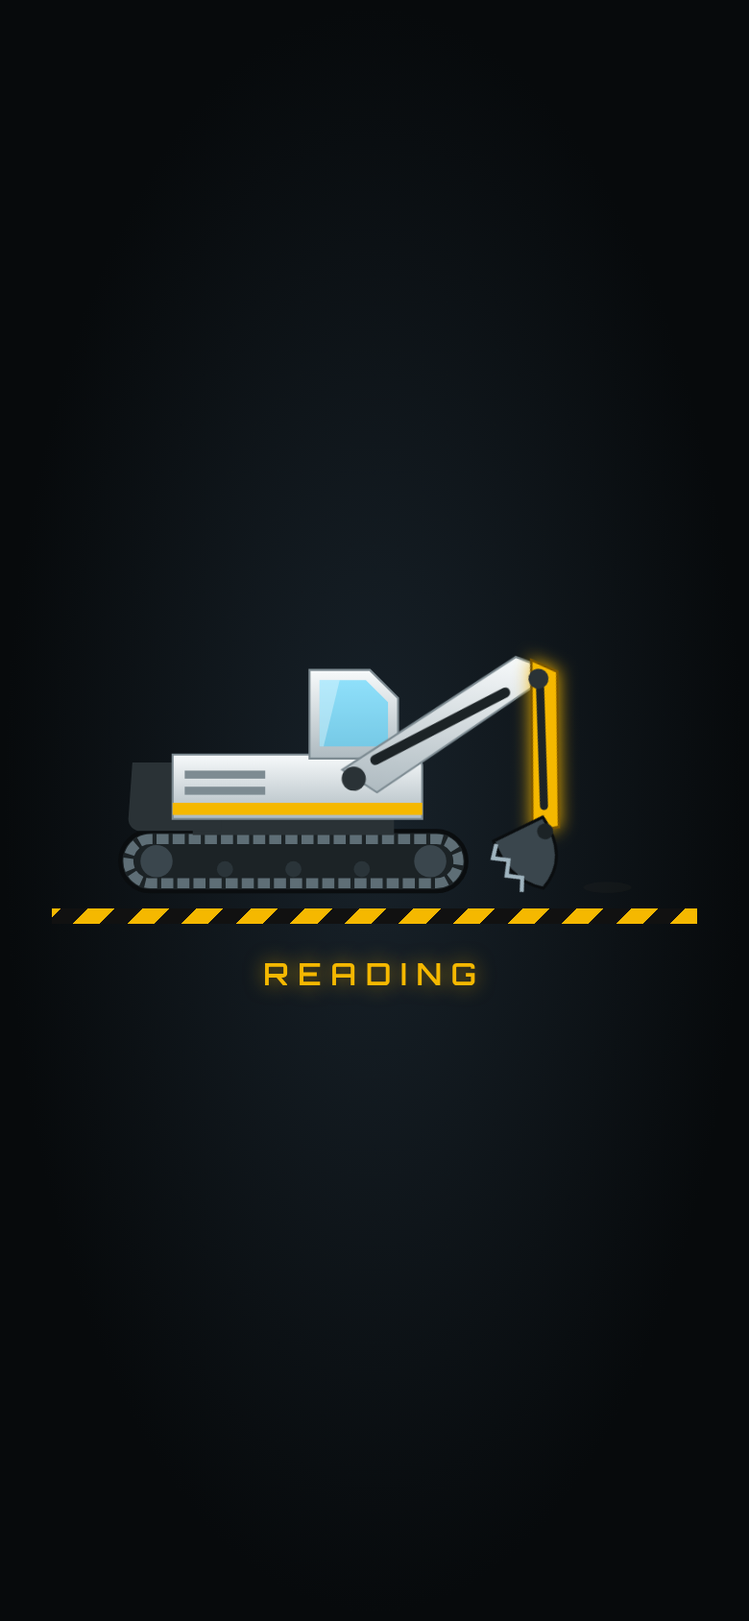
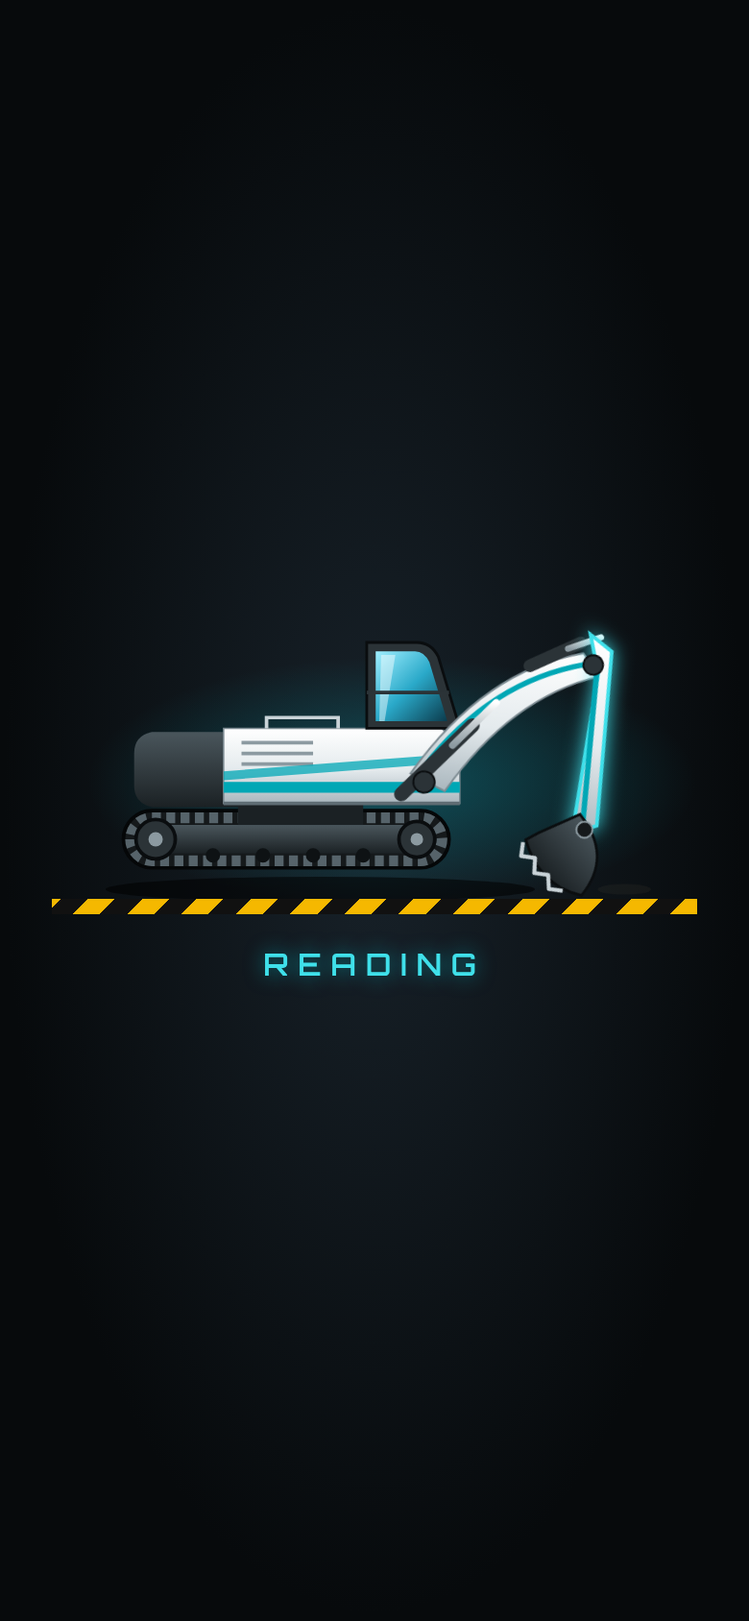
GAS: コベルコ建機カラー（白×ブルーグリーン）に変更、ショベルを描き直し
Claude-Session: https://claude.ai/code/session_01HFT8mKpU6VM34VUtTFDf1R

Changed region(s): [[0.0923, 0.3697, 0.8308, 0.6161], [0.8308, 0.5545, 0.9231, 0.5853]]

diff --git a/gas-paste/index.html b/gas-paste/index.html
@@ -9,7 +9,7 @@
 :root{
   --bg:#0E1215; --plate:#171D21; --plate2:#1F272C; --edge:#33414A; --edge-hi:#4C5E69;
   --ink:#DCE4E6; --sub:#8A9AA2; --steel:#9FB4BF;
-  --yellow:#F5B800; --ok:#38E08A; --warn:#FFB020; --ng:#FF4D3D; --cyan:#3FD0FF; --stamp:#C9D6DA;
+  --yellow:#F5B800;--accent:#00A7B5;--accent-hi:#3FE0EA; --ok:#38E08A; --warn:#FFB020; --ng:#FF4D3D; --cyan:#3FD0FF; --stamp:#C9D6DA;
   --cut:10px;
   color-scheme:dark;
 }
@@ -22,7 +22,7 @@ body{margin:0;min-height:100vh;color:var(--ink);font-family:"BIZ UDPGothic","Hir
     linear-gradient(90deg,rgba(63,208,255,.035) 1px,transparent 1px) 0 0/24px 24px,
     radial-gradient(ellipse at 50% -10%,#1C262C 0%,var(--bg) 60%);
   background-color:var(--bg);background-attachment:fixed}
-.hazard{height:10px;background:repeating-linear-gradient(-45deg,var(--yellow) 0 14px,#111 14px 28px);box-shadow:0 2px 0 #000}
+.hazard{height:10px;background:repeating-linear-gradient(-45deg,#F5B800 0 14px,#111 14px 28px);box-shadow:0 2px 0 #000}
 main{max-width:720px;margin:0 auto;padding:14px 16px 16px}
 header{display:flex;justify-content:space-between;align-items:center;gap:8px;margin:2px 0 12px;padding:10px 12px;
   background:linear-gradient(180deg,var(--plate2),var(--plate));border:1px solid var(--edge);
@@ -34,7 +34,7 @@ h1{font-family:"Orbitron","Share Tech Mono",sans-serif;font-weight:800;font-size
   background:linear-gradient(180deg,#F4F8F9 0%,#9FB4BF 55%,#5E727C 100%);-webkit-background-clip:text;background-clip:text;color:transparent}
 .brand small{display:block;font-family:"Share Tech Mono",monospace;font-size:.62rem;letter-spacing:.32em;color:var(--sub);margin-top:4px}
 h2{font-family:"Share Tech Mono","BIZ UDPGothic",monospace;font-size:.95rem;letter-spacing:.08em;margin:0 0 10px;color:var(--steel);display:flex;align-items:center;gap:8px}
-h2::before{content:"";width:6px;height:14px;background:var(--yellow);box-shadow:0 0 6px rgba(245,184,0,.5)}
+h2::before{content:"";width:6px;height:14px;background:var(--accent);box-shadow:0 0 6px rgba(0,200,215,.5)}
 button{font:inherit;cursor:pointer;border:none;border-radius:0;color:inherit}
 button:disabled{opacity:.45;cursor:default}
 button:focus-visible,input:focus-visible,textarea:focus-visible{outline:2px solid var(--cyan);outline-offset:2px}
@@ -46,7 +46,7 @@ button:focus-visible,input:focus-visible,textarea:focus-visible{outline:2px soli
   background:linear-gradient(180deg,#232C31,#161C20);color:var(--sub);border:1px solid var(--edge);position:relative}
 #nav button::after{content:"";position:absolute;left:50%;top:4px;width:18px;height:3px;margin-left:-9px;background:#2A3439}
 #nav button.on{color:var(--ink);background:linear-gradient(180deg,#2C3940,#1B2328);border-color:var(--edge-hi)}
-#nav button.on::after{background:var(--yellow);box-shadow:0 0 8px var(--yellow)}
+#nav button.on::after{background:var(--accent);box-shadow:0 0 8px var(--accent)}
 #nav .badge{display:inline-block;min-width:1.5em;margin-left:6px;padding:0 5px;background:var(--ng);color:#fff;font-size:.72rem;box-shadow:0 0 8px rgba(255,77,61,.6)}
 section{position:relative;background:linear-gradient(180deg,var(--plate2) 0,var(--plate) 60px);border:1px solid var(--edge);padding:16px 14px 14px;margin-bottom:14px;
   clip-path:polygon(0 0,calc(100% - var(--cut)) 0,100% var(--cut),100% 100%,var(--cut) 100%,0 calc(100% - var(--cut)));
@@ -55,22 +55,22 @@ section{position:relative;background:linear-gradient(180deg,var(--plate2) 0,var(
 section::before,section::after{content:"";position:absolute;top:6px;width:7px;height:7px;border-radius:50%;
   background:radial-gradient(circle at 35% 35%,#8FA3AD,#3A464D 60%,#1B2226);box-shadow:0 1px 0 rgba(255,255,255,.06)}
 section::before{left:6px}section::after{right:16px}
-.shoot{display:block;width:100%;min-height:92px;color:#111;font-size:1.15rem;font-weight:700;letter-spacing:.06em;position:relative;
-  background:linear-gradient(180deg,#FFCC2E,#E0A400);border:none;
+.shoot{display:block;width:100%;min-height:92px;color:#fff;text-shadow:0 1px 0 rgba(0,0,0,.35);font-size:1.15rem;font-weight:700;letter-spacing:.06em;position:relative;
+  background:linear-gradient(180deg,#22C3D0,#00848F);border:none;
   clip-path:polygon(0 0,calc(100% - 16px) 0,100% 16px,100% 100%,16px 100%,0 calc(100% - 16px));
   box-shadow:inset 0 -4px 0 rgba(0,0,0,.25)}
-.shoot::before{content:"";position:absolute;left:0;top:0;bottom:0;width:18px;background:repeating-linear-gradient(-45deg,#111 0 7px,transparent 7px 14px)}
+.shoot::before{content:"";position:absolute;left:0;top:0;bottom:0;width:18px;background:repeating-linear-gradient(-45deg,#F5B800 0 7px,#111 7px 14px)}
 .shoot small{display:block;font-weight:400;font-size:.78rem;opacity:.75}
 .shoot:active{transform:translateY(1px);filter:brightness(.95)}
 .shoot.alt{margin-top:10px;min-height:56px;font-size:.98rem;color:var(--ink);background:linear-gradient(180deg,#2A353B,#1A2226);border:1px solid var(--edge-hi);box-shadow:none}
-.shoot.alt::before{width:8px;background:var(--yellow)}
+.shoot.alt::before{width:8px;background:var(--accent)}
 .tip,.muted{font-size:.8rem;color:var(--sub)}
 .tip{margin:8px 2px 16px;padding-left:10px;border-left:2px solid var(--edge-hi)}
 .btn{flex:1;padding:12px;font-weight:700;letter-spacing:.06em;color:var(--ink);background:linear-gradient(180deg,#36444B,#232D32);border:1px solid var(--edge-hi);
   clip-path:polygon(0 0,calc(100% - 8px) 0,100% 8px,100% 100%,8px 100%,0 calc(100% - 8px))}
 .btn:active{filter:brightness(1.15)}
 .btn.sec{background:transparent;border:1px solid var(--edge-hi);color:var(--steel)}
-.btn.go{background:linear-gradient(180deg,#FFCC2E,#E0A400);color:#111;border:none}
+.btn.go{background:linear-gradient(180deg,#22C3D0,#00848F);color:#fff;border:none}
 .btn.ok{background:linear-gradient(180deg,#2BC274,#178A50);color:#fff;border:none;text-shadow:0 1px 0 rgba(0,0,0,.3);box-shadow:inset 0 0 0 1px rgba(255,255,255,.12)}
 .btn.mini{flex:0 0 auto;padding:6px 12px;font-size:.8rem}
 .row{display:flex;gap:8px;margin-top:10px;flex-wrap:wrap}
@@ -101,16 +101,16 @@ textarea{min-height:64px}
 .days{display:flex;gap:6px;overflow-x:auto;padding-bottom:8px}
 .days button{flex:0 0 auto;padding:6px 12px;background:#0A0D0F;border:1px solid var(--edge);color:var(--steel);font-family:"Share Tech Mono","BIZ UDPGothic",monospace;font-weight:700;line-height:1.25;text-align:center}
 .days button small{display:block;font-weight:400;font-size:.7rem;color:var(--sub)}
-.days button.on{border-color:var(--yellow);color:#111;background:linear-gradient(180deg,#FFCC2E,#E0A400)}
-.days button.on small{color:#111}
+.days button.on{border-color:var(--accent);color:#fff;background:linear-gradient(180deg,#22C3D0,#00848F)}
+.days button.on small{color:#E6FCFF}
 .days button.has-todo small{color:var(--ng);font-weight:700}
-.days button.on.has-todo small{color:#7A0E06}
+.days button.on.has-todo small{color:#FFE1DC}
 .tl{list-style:none;margin:0;padding:0;border-left:2px solid var(--edge);margin-left:6px}
 .tl li{display:flex;justify-content:space-between;border-top:1px dashed var(--edge);padding:7px 0 7px 14px;font-size:.9rem;position:relative}
 .tl li::before{content:"";position:absolute;left:-6px;top:13px;width:10px;height:10px;background:var(--plate);border:2px solid var(--edge-hi);transform:rotate(45deg)}
 .tl li:first-child{border-top:none}
 .tl li.empty{color:var(--sub)}
-.tl li:not(.empty)::before{border-color:var(--yellow);background:var(--yellow);box-shadow:0 0 6px rgba(245,184,0,.6)}
+.tl li:not(.empty)::before{border-color:var(--accent);background:var(--accent);box-shadow:0 0 6px rgba(0,200,215,.6)}
 .steps li{display:block}
 .steps .sh{display:flex;justify-content:space-between}
 .steps .chg{font-size:.78rem;color:var(--warn)}
@@ -143,19 +143,19 @@ textarea{min-height:64px}
 .full{position:fixed;inset:0;z-index:10;background:#050708;color:#fff;display:flex;flex-direction:column}
 .full .bar{display:flex;gap:8px;padding:12px}
 .full .bar .btn{background:#2A3438;color:#fff}
-.full .bar .btn.go{background:linear-gradient(180deg,#FFCC2E,#E0A400);color:#111}
+.full .bar .btn.go{background:linear-gradient(180deg,#22C3D0,#00848F);color:#fff}
 .full .hint{text-align:center;font-size:.88rem;padding:10px 12px 0;color:var(--cyan);font-family:"Share Tech Mono","BIZ UDPGothic",monospace}
 #vfBox{position:relative;flex:1;overflow:hidden}
 #vfBox video{position:absolute;inset:0;width:100%;height:100%;object-fit:cover}
-#guide{position:absolute;left:7%;width:86%;top:50%;transform:translateY(-50%);aspect-ratio:3.2/1;border:2px solid var(--yellow);box-shadow:0 0 0 9999px rgba(0,0,0,.6),0 0 14px rgba(245,184,0,.6)}
+#guide{position:absolute;left:7%;width:86%;top:50%;transform:translateY(-50%);aspect-ratio:3.2/1;border:2px solid var(--accent);box-shadow:0 0 0 9999px rgba(0,0,0,.6),0 0 14px rgba(0,200,215,.6)}
 #guide::before{content:"";position:absolute;left:0;right:0;top:50%;height:1px;background:rgba(63,208,255,.6);animation:scan 2s linear infinite}
 @keyframes scan{0%{top:6%}50%{top:94%}100%{top:6%}}
 #guide::after{content:"1行目：図番　2行目：◇ 年月-号機";position:absolute;left:0;right:0;top:calc(100% + 10px);text-align:center;font-size:.82rem;color:#fff}
 #cropStage{flex:1;display:flex;align-items:center;justify-content:center;overflow:hidden;padding:8px}
 #cropWrap{position:relative;touch-action:none;line-height:0;overflow:hidden}
 #cropImg{max-width:100%;max-height:calc(100vh - 220px);display:block;user-select:none;-webkit-user-drag:none}
-#cropBox{position:absolute;border:2px solid var(--yellow);box-shadow:0 0 0 9999px rgba(0,0,0,.6);cursor:move;touch-action:none}
-.h{position:absolute;width:30px;height:30px;background:var(--yellow);touch-action:none;clip-path:polygon(50% 0,100% 50%,50% 100%,0 50%)}
+#cropBox{position:absolute;border:2px solid var(--accent);box-shadow:0 0 0 9999px rgba(0,0,0,.6);cursor:move;touch-action:none}
+.h{position:absolute;width:30px;height:30px;background:var(--accent);touch-action:none;clip-path:polygon(50% 0,100% 50%,50% 100%,0 50%)}
 .h.tl{left:-15px;top:-15px}.h.tr{right:-15px;top:-15px}.h.bl{left:-15px;bottom:-15px}.h.br{right:-15px;bottom:-15px}
 #toast{position:fixed;left:50%;bottom:calc(20px + env(safe-area-inset-bottom,0px));transform:translateX(-50%) translateY(90px);background:#060909;color:var(--ok);
   border:1px solid var(--ok);box-shadow:0 0 12px rgba(56,224,138,.35);font-family:"Share Tech Mono","BIZ UDPGothic",monospace;padding:10px 16px;transition:transform .25s;z-index:30;font-size:.88rem;max-width:90vw}
@@ -163,18 +163,20 @@ textarea{min-height:64px}
 #toast.show{transform:translateX(-50%) translateY(0)}
 
 /* ===== パワーショベル ===== */
-:root{--body:#E9EEF0;--body2:#B9C4CA;--dark:#2A3236;--arm:#F5B800;--glass:#3FD0FF}
+:root{--body:#E9EEF0;--body2:#B9C4CA;--dark:#2A3236;--arm:#00A7B5;--glass:#3FD0FF}
 .hero{display:flex;align-items:flex-end;justify-content:space-between;gap:6px}
-.hero .exc{width:58%;max-width:250px;margin:-14px -6px -6px 0;filter:drop-shadow(0 6px 8px rgba(0,0,0,.6))}
+.hero{min-height:150px;align-items:stretch}
+.hero>div:first-child{position:relative;z-index:1}
+.hero .exc{position:absolute;right:4px;bottom:-2px;width:62%;max-width:310px;filter:drop-shadow(0 8px 10px rgba(0,0,0,.6))}
 .exc .trk-tread{animation:tread .8s linear infinite}
 @keyframes tread{to{stroke-dashoffset:-16}}
-.exc .boom{transform-box:view-box;transform-origin:150px 92px;animation:boom 4s ease-in-out infinite alternate}
-.exc .arm{transform-box:view-box;transform-origin:238px 36px;animation:armk 4s ease-in-out infinite alternate}
-.exc .bkt{transform-box:view-box;transform-origin:262px 108px;animation:bkt 4s ease-in-out infinite alternate}
-@keyframes boom{0%{transform:rotate(-10deg)}100%{transform:rotate(6deg)}}
-@keyframes armk{0%{transform:rotate(-18deg)}100%{transform:rotate(16deg)}}
+.exc .boom{transform-box:view-box;transform-origin:208px 100px;animation:boom 4s ease-in-out infinite alternate}
+.exc .arm{transform-box:view-box;transform-origin:296px 26px;animation:armk 4s ease-in-out infinite alternate}
+.exc .bkt{transform-box:view-box;transform-origin:316px 116px;animation:bkt 4s ease-in-out infinite alternate}
+@keyframes boom{0%{transform:rotate(-8deg)}100%{transform:rotate(7deg)}}
+@keyframes armk{0%{transform:rotate(-22deg)}100%{transform:rotate(14deg)}}
 @keyframes bkt{0%{transform:rotate(-35deg)}100%{transform:rotate(40deg)}}
-.exc .armpart{fill:var(--arm);filter:drop-shadow(0 0 4px rgba(245,184,0,.9))}
+.exc .armpart{fill:url(#gBody);stroke:var(--accent-hi);stroke-width:2;filter:drop-shadow(0 0 5px rgba(63,224,234,.95))}
 .exc .dust{animation:dust 4s ease-in-out infinite alternate;transform-box:fill-box;transform-origin:center}
 @keyframes dust{0%,70%{opacity:0;transform:scale(.4)}100%{opacity:.7;transform:scale(1.2)}}
 .tracks{height:16px;margin:0 0 12px;background:
@@ -186,9 +188,9 @@ textarea{min-height:64px}
   background:radial-gradient(ellipse at center,#18222A 0%,#070A0C 70%)}
 #busy .exc{width:min(86vw,420px)}
 #busy .exc .boom,#busy .exc .arm,#busy .exc .bkt,#busy .exc .dust{animation-duration:1.1s}
-#busy p{margin:0;font-family:"Orbitron","Share Tech Mono",monospace;letter-spacing:.3em;color:var(--yellow);text-shadow:0 0 10px rgba(245,184,0,.6);font-size:1rem}
+#busy p{margin:0;font-family:"Orbitron","Share Tech Mono",monospace;letter-spacing:.3em;color:var(--accent-hi);text-shadow:0 0 10px rgba(0,200,215,.6);font-size:1rem}
 #busy small{font-family:"Share Tech Mono","BIZ UDPGothic",monospace;color:var(--sub);letter-spacing:.06em}
-#busy .ground{width:min(86vw,420px);height:8px;margin-top:-18px;background:repeating-linear-gradient(-45deg,var(--yellow) 0 10px,#111 10px 20px)}
+#busy .ground{width:min(86vw,420px);height:8px;margin-top:-18px;background:repeating-linear-gradient(-45deg,#F5B800 0 10px,#111 10px 20px)}
 h1{font-size:1.9rem}
 .shoot{min-height:104px;font-size:1.25rem}
 .shoot .bucket{display:inline-block;width:34px;height:26px;vertical-align:-5px;margin-right:8px}
@@ -213,7 +215,7 @@ h1{font-size:1.9rem}
   </nav>
 
   <div id="scanView">
-    <button class="shoot" id="shootBtn" type="button"><svg class="bucket" viewBox="0 0 34 26"><path d="M2 4 q26 0 30 18 q-16 6 -30 0 z" fill="#111"/><path d="M4 22 l3 4 l4 -3 l4 4 l4 -3 l4 3" fill="none" stroke="#111" stroke-width="2"/></svg>刻印を撮影する<small>黄色い枠に図番と号機の2行を合わせる</small></button>
+    <button class="shoot" id="shootBtn" type="button"><svg class="bucket" viewBox="0 0 34 26" fill="none" stroke="#fff" stroke-width="2.6"><path d="M2 8 V2 H9 M25 2 H32 V8 M32 18 V24 H25 M9 24 H2 V18"/><path d="M8 13 H26" stroke-width="1.6" opacity=".9"/></svg>刻印を撮影する<small>枠に図番と号機の2行を合わせる</small></button>
     <button class="shoot alt" id="pickBtn" type="button">写真を選んで枠で切り抜く</button>
     <input id="cam" type="file" accept="image/*" capture="environment" class="hidden">
     <input id="pick" type="file" accept="image/*" class="hidden">
@@ -243,7 +245,7 @@ h1{font-size:1.9rem}
   <div class="bar"><button class="btn" id="vfCancel" type="button">やめる</button><button class="btn go" id="vfShot" type="button">撮る</button></div>
 </div>
 <div class="full hidden" id="crop">
-  <div class="hint">黄色い枠を刻印の2行に合わせる（ドラッグで移動、角で大きさ）</div>
+  <div class="hint">枠を刻印の2行に合わせる（ドラッグで移動、角で大きさ）</div>
   <div id="cropStage"><div id="cropWrap"><img id="cropImg" alt="切り抜く写真"><div id="cropBox"><div class="h tl" data-h="tl"></div><div class="h tr" data-h="tr"></div><div class="h bl" data-h="bl"></div><div class="h br" data-h="br"></div></div></div></div>
   <div class="bar"><button class="btn" id="cropCancel" type="button">やめる</button><button class="btn go" id="cropOk" type="button">この範囲で読む</button></div>
 </div>
@@ -253,7 +255,7 @@ h1{font-size:1.9rem}
 <script>
 (() => {
 const $ = id => document.getElementById(id);
-const EXC_SVG = '<svg class="exc" viewBox="0 0 320 160" aria-hidden="true">\n  <defs>\n    <linearGradient id="gBody" x1="0" y1="0" x2="0" y2="1"><stop offset="0" stop-color="#F7FAFB"/><stop offset="1" stop-color="#AEBAC0"/></linearGradient>\n    <linearGradient id="gArm" x1="0" y1="0" x2="1" y2="1"><stop offset="0" stop-color="#FFD54A"/><stop offset="1" stop-color="#E09A00"/></linearGradient>\n  </defs>\n  <!-- キャタピラ -->\n  <rect x="34" y="118" width="172" height="30" rx="15" fill="#1C2326" stroke="#0A0D0F" stroke-width="2"/>\n  <rect x="38" y="122" width="164" height="22" rx="11" fill="none" stroke="#5E6E76" stroke-width="5" stroke-dasharray="6 2" class="trk-tread"/>\n  <circle cx="52" cy="133" r="8" fill="#3A464D"/><circle cx="188" cy="133" r="8" fill="#3A464D"/>\n  <circle cx="86" cy="137" r="4" fill="#2A3439"/><circle cx="120" cy="137" r="4" fill="#2A3439"/><circle cx="154" cy="137" r="4" fill="#2A3439"/>\n  <!-- 旋回体 -->\n  <rect x="70" y="110" width="100" height="10" fill="#2A3236"/>\n  <path d="M40 84 h44 v34 h-40 a6 6 0 0 1 -6 -6 z" fill="#2A3236"/>\n  <path d="M60 80 h118 a6 6 0 0 1 6 6 v26 h-124 z" fill="url(#gBody)" stroke="#7D8B92" stroke-width="1"/>\n  <rect x="66" y="88" width="40" height="4" fill="#7D8B92"/><rect x="66" y="96" width="40" height="4" fill="#7D8B92"/>\n  <rect x="60" y="104" width="124" height="6" fill="#F5B800"/>\n  <!-- キャブ -->\n  <path d="M128 38 h30 l14 14 v30 h-44 z" fill="url(#gBody)" stroke="#7D8B92"/>\n  <path d="M133 43 h23 l11 11 v22 h-34 z" fill="#3FD0FF" opacity=".55"/>\n  <path d="M133 43 h10 l-8 33 h-2 z" fill="#fff" opacity=".35"/>\n  <!-- ブーム → アーム → バケット -->\n  <g class="boom">\n    <path d="M144 88 L226 26 L246 32 L162 98 Z" fill="url(#gBody)" stroke="#7D8B92"/>\n    <path d="M160 82 L222 44" stroke="#1C2326" stroke-width="5" stroke-linecap="round"/>\n    <circle cx="150" cy="92" r="6" fill="#2A3236"/>\n    <g class="arm">\n      <path class="armpart" d="M232 28 L246 30 L268 104 L256 110 Z" stroke="#7A5500" stroke-width="1.2"/>\n      <path d="M240 40 L258 96" stroke="#1C2326" stroke-width="4" stroke-linecap="round"/>\n      <circle cx="238" cy="36" r="5" fill="#2A3236"/>\n      <g class="bkt">\n        <path d="M256 104 q24 4 26 24 q-14 10 -34 2 z" fill="#3A464D" stroke="#0A0D0F" stroke-width="1.5"/>\n        <path d="M250 130 l4 6 l6 -5 l5 6 l6 -5 l5 5" fill="none" stroke="#9FB4BF" stroke-width="2"/>\n        <circle cx="262" cy="108" r="4" fill="#1C2326"/>\n      </g>\n    </g>\n  </g>\n  <ellipse class="dust" cx="276" cy="146" rx="26" ry="6" fill="#8A7A5C"/>\n</svg>';
+const EXC_SVG = '<svg class="exc" viewBox="0 0 360 170" aria-hidden="true">\n  <defs>\n    <linearGradient id="gBody" x1="0" y1="0" x2="0" y2="1"><stop offset="0" stop-color="#FFFFFF"/><stop offset=".55" stop-color="#E4EAED"/><stop offset="1" stop-color="#A9B6BD"/></linearGradient>\n    <linearGradient id="gDark" x1="0" y1="0" x2="0" y2="1"><stop offset="0" stop-color="#4A565C"/><stop offset="1" stop-color="#1B2124"/></linearGradient>\n    <linearGradient id="gGlass" x1="0" y1="0" x2="1" y2="1"><stop offset="0" stop-color="#9FEFFF"/><stop offset=".5" stop-color="#2AA9C9"/><stop offset="1" stop-color="#0B3B4C"/></linearGradient>\n    <linearGradient id="gRod" x1="0" y1="0" x2="0" y2="1"><stop offset="0" stop-color="#FFFFFF"/><stop offset="1" stop-color="#8C9AA1"/></linearGradient>\n    <radialGradient id="gSpot" cx=".5" cy=".5" r=".5"><stop offset="0" stop-color="#00A7B5" stop-opacity=".35"/><stop offset="1" stop-color="#00A7B5" stop-opacity="0"/></radialGradient>\n  </defs>\n  <ellipse cx="190" cy="100" rx="170" ry="70" fill="url(#gSpot)"/>\n  <ellipse cx="150" cy="160" rx="120" ry="7" fill="#000" opacity=".55"/>\n  <!-- 足回り -->\n  <path d="M40 132 a16 16 0 0 1 16 -16 h150 a16 16 0 0 1 0 32 h-150 a16 16 0 0 1 -16 -16 z" fill="#15191B" stroke="#050708" stroke-width="2"/>\n  <path d="M44 132 a12 12 0 0 1 12 -12 h150 a12 12 0 0 1 0 24 h-150 a12 12 0 0 1 -12 -12 z" fill="none" stroke="#56636A" stroke-width="6" stroke-dasharray="5 3" class="trk-tread"/>\n  <rect x="58" y="124" width="146" height="16" rx="4" fill="url(#gDark)"/>\n  <circle cx="58" cy="132" r="11" fill="#2B3337" stroke="#0A0D0F" stroke-width="2"/><circle cx="58" cy="132" r="4" fill="#8C9AA1"/>\n  <circle cx="204" cy="132" r="10" fill="#2B3337" stroke="#0A0D0F" stroke-width="2"/><circle cx="204" cy="132" r="3.5" fill="#8C9AA1"/>\n  <g fill="#0E1214"><circle cx="90" cy="141" r="4"/><circle cx="118" cy="141" r="4"/><circle cx="146" cy="141" r="4"/><circle cx="174" cy="141" r="4"/></g>\n  <rect x="104" y="112" width="70" height="12" fill="#1B2124"/>\n  <!-- 上部旋回体 -->\n  <path d="M46 84 q0 -10 10 -12 h52 v42 h-52 q-10 -2 -10 -12 z" fill="url(#gDark)"/>\n  <path d="M96 70 h122 l10 12 v30 h-132 z" fill="url(#gBody)" stroke="#7D8B92" stroke-width=".8"/>\n  <g stroke="#8C9AA1" stroke-width="2"><path d="M106 78 h40"/><path d="M106 84 h40"/><path d="M106 90 h40"/></g>\n  <path d="M96 100 h132 v6 h-132 z" fill="#00A7B5"/>\n  <path d="M96 94 l132 -10 v5 l-132 10 z" fill="#00A7B5" opacity=".75"/>\n  <path d="M96 112 h132" stroke="#5E6C73" stroke-width="2"/>\n  <path d="M120 70 v-6 h40 v6" fill="none" stroke="#C9D3D8" stroke-width="2"/>\n  <!-- キャブ -->\n  <path d="M176 22 h28 q8 0 12 8 l12 40 h-52 z" fill="#2B3337" stroke="#0A0D0F" stroke-width="1.5"/>\n  <path d="M181 27 h22 q5 0 8 6 l10 33 h-40 z" fill="url(#gGlass)"/>\n  <path d="M184 29 h8 l-6 37 h-3 z" fill="#fff" opacity=".45"/>\n  <path d="M176 50 h46" stroke="#2B3337" stroke-width="2"/>\n  <!-- ブーム（弓なり）→ アーム → バケット -->\n  <g class="boom">\n    <path d="M200 96 Q236 34 290 20 L300 32 Q252 48 220 104 Z" fill="url(#gBody)" stroke="#7D8B92" stroke-width="1"/>\n    <path d="M207 92 Q240 40 292 26" fill="none" stroke="#00A7B5" stroke-width="3"/>\n    <!-- ブームシリンダー -->\n    <path d="M196 108 L232 66" stroke="#2B3337" stroke-width="8" stroke-linecap="round"/>\n    <path d="M222 78 L244 52" stroke="url(#gRod)" stroke-width="4" stroke-linecap="round"/>\n    <circle cx="208" cy="100" r="6" fill="#2B3337" stroke="#0A0D0F"/>\n    <g class="arm">\n      <!-- アームシリンダー -->\n      <path d="M262 36 L286 16" stroke="#2B3337" stroke-width="7" stroke-linecap="round"/>\n      <path d="M280 21 L296 10" stroke="url(#gRod)" stroke-width="3.5" stroke-linecap="round"/>\n      <path class="armpart" d="M290 10 L304 16 L322 112 L310 120 L300 30 Z"/>\n      <path d="M298 24 L314 112" stroke="#00A7B5" stroke-width="3"/>\n      <circle cx="296" cy="26" r="5.5" fill="#2B3337" stroke="#0A0D0F"/>\n      <g class="bkt">\n        <path d="M308 112 q30 2 34 30 q-20 14 -44 2 l2 -8 z" fill="url(#gDark)" stroke="#0A0D0F" stroke-width="1.5"/>\n        <path d="M298 146 l5 6 l6 -5 l6 6 l6 -5 l6 5 l6 -5" fill="none" stroke="#C9D3D8" stroke-width="2.2" stroke-linejoin="round"/>\n        <circle cx="316" cy="116" r="4.5" fill="#15191B" stroke="#8C9AA1"/>\n      </g>\n    </g>\n  </g>\n  <ellipse class="dust" cx="320" cy="160" rx="30" ry="6" fill="#8A7A5C"/>\n</svg>';
 document.querySelectorAll("[data-exc]").forEach(el => { el.outerHTML = EXC_SVG; });
 function busy(on, title, sub) { $("busy").classList.toggle("hidden", !on); if (on) { $("busyT").textContent = title || "WORKING"; $("busyS").textContent = sub || ""; } }
 const run = (fn, ...args) => new Promise((res, rej) => google.script.run.withSuccessHandler(res).withFailureHandler(rej)[fn](...args));

diff --git a/gas/index.html b/gas/index.html
@@ -9,7 +9,7 @@
 :root{
   --bg:#0E1215; --plate:#171D21; --plate2:#1F272C; --edge:#33414A; --edge-hi:#4C5E69;
   --ink:#DCE4E6; --sub:#8A9AA2; --steel:#9FB4BF;
-  --yellow:#F5B800; --ok:#38E08A; --warn:#FFB020; --ng:#FF4D3D; --cyan:#3FD0FF; --stamp:#C9D6DA;
+  --yellow:#F5B800;--accent:#00A7B5;--accent-hi:#3FE0EA; --ok:#38E08A; --warn:#FFB020; --ng:#FF4D3D; --cyan:#3FD0FF; --stamp:#C9D6DA;
   --cut:10px;
   color-scheme:dark;
 }
@@ -22,7 +22,7 @@ body{margin:0;min-height:100vh;color:var(--ink);font-family:"BIZ UDPGothic","Hir
     linear-gradient(90deg,rgba(63,208,255,.035) 1px,transparent 1px) 0 0/24px 24px,
     radial-gradient(ellipse at 50% -10%,#1C262C 0%,var(--bg) 60%);
   background-color:var(--bg);background-attachment:fixed}
-.hazard{height:10px;background:repeating-linear-gradient(-45deg,var(--yellow) 0 14px,#111 14px 28px);box-shadow:0 2px 0 #000}
+.hazard{height:10px;background:repeating-linear-gradient(-45deg,#F5B800 0 14px,#111 14px 28px);box-shadow:0 2px 0 #000}
 main{max-width:720px;margin:0 auto;padding:14px 16px 16px}
 header{display:flex;justify-content:space-between;align-items:center;gap:8px;margin:2px 0 12px;padding:10px 12px;
   background:linear-gradient(180deg,var(--plate2),var(--plate));border:1px solid var(--edge);
@@ -34,7 +34,7 @@ h1{font-family:"Orbitron","Share Tech Mono",sans-serif;font-weight:800;font-size
   background:linear-gradient(180deg,#F4F8F9 0%,#9FB4BF 55%,#5E727C 100%);-webkit-background-clip:text;background-clip:text;color:transparent}
 .brand small{display:block;font-family:"Share Tech Mono",monospace;font-size:.62rem;letter-spacing:.32em;color:var(--sub);margin-top:4px}
 h2{font-family:"Share Tech Mono","BIZ UDPGothic",monospace;font-size:.95rem;letter-spacing:.08em;margin:0 0 10px;color:var(--steel);display:flex;align-items:center;gap:8px}
-h2::before{content:"";width:6px;height:14px;background:var(--yellow);box-shadow:0 0 6px rgba(245,184,0,.5)}
+h2::before{content:"";width:6px;height:14px;background:var(--accent);box-shadow:0 0 6px rgba(0,200,215,.5)}
 button{font:inherit;cursor:pointer;border:none;border-radius:0;color:inherit}
 button:disabled{opacity:.45;cursor:default}
 button:focus-visible,input:focus-visible,textarea:focus-visible{outline:2px solid var(--cyan);outline-offset:2px}
@@ -46,7 +46,7 @@ button:focus-visible,input:focus-visible,textarea:focus-visible{outline:2px soli
   background:linear-gradient(180deg,#232C31,#161C20);color:var(--sub);border:1px solid var(--edge);position:relative}
 #nav button::after{content:"";position:absolute;left:50%;top:4px;width:18px;height:3px;margin-left:-9px;background:#2A3439}
 #nav button.on{color:var(--ink);background:linear-gradient(180deg,#2C3940,#1B2328);border-color:var(--edge-hi)}
-#nav button.on::after{background:var(--yellow);box-shadow:0 0 8px var(--yellow)}
+#nav button.on::after{background:var(--accent);box-shadow:0 0 8px var(--accent)}
 #nav .badge{display:inline-block;min-width:1.5em;margin-left:6px;padding:0 5px;background:var(--ng);color:#fff;font-size:.72rem;box-shadow:0 0 8px rgba(255,77,61,.6)}
 section{position:relative;background:linear-gradient(180deg,var(--plate2) 0,var(--plate) 60px);border:1px solid var(--edge);padding:16px 14px 14px;margin-bottom:14px;
   clip-path:polygon(0 0,calc(100% - var(--cut)) 0,100% var(--cut),100% 100%,var(--cut) 100%,0 calc(100% - var(--cut)));
@@ -55,22 +55,22 @@ section{position:relative;background:linear-gradient(180deg,var(--plate2) 0,var(
 section::before,section::after{content:"";position:absolute;top:6px;width:7px;height:7px;border-radius:50%;
   background:radial-gradient(circle at 35% 35%,#8FA3AD,#3A464D 60%,#1B2226);box-shadow:0 1px 0 rgba(255,255,255,.06)}
 section::before{left:6px}section::after{right:16px}
-.shoot{display:block;width:100%;min-height:92px;color:#111;font-size:1.15rem;font-weight:700;letter-spacing:.06em;position:relative;
-  background:linear-gradient(180deg,#FFCC2E,#E0A400);border:none;
+.shoot{display:block;width:100%;min-height:92px;color:#fff;text-shadow:0 1px 0 rgba(0,0,0,.35);font-size:1.15rem;font-weight:700;letter-spacing:.06em;position:relative;
+  background:linear-gradient(180deg,#22C3D0,#00848F);border:none;
   clip-path:polygon(0 0,calc(100% - 16px) 0,100% 16px,100% 100%,16px 100%,0 calc(100% - 16px));
   box-shadow:inset 0 -4px 0 rgba(0,0,0,.25)}
-.shoot::before{content:"";position:absolute;left:0;top:0;bottom:0;width:18px;background:repeating-linear-gradient(-45deg,#111 0 7px,transparent 7px 14px)}
+.shoot::before{content:"";position:absolute;left:0;top:0;bottom:0;width:18px;background:repeating-linear-gradient(-45deg,#F5B800 0 7px,#111 7px 14px)}
 .shoot small{display:block;font-weight:400;font-size:.78rem;opacity:.75}
 .shoot:active{transform:translateY(1px);filter:brightness(.95)}
 .shoot.alt{margin-top:10px;min-height:56px;font-size:.98rem;color:var(--ink);background:linear-gradient(180deg,#2A353B,#1A2226);border:1px solid var(--edge-hi);box-shadow:none}
-.shoot.alt::before{width:8px;background:var(--yellow)}
+.shoot.alt::before{width:8px;background:var(--accent)}
 .tip,.muted{font-size:.8rem;color:var(--sub)}
 .tip{margin:8px 2px 16px;padding-left:10px;border-left:2px solid var(--edge-hi)}
 .btn{flex:1;padding:12px;font-weight:700;letter-spacing:.06em;color:var(--ink);background:linear-gradient(180deg,#36444B,#232D32);border:1px solid var(--edge-hi);
   clip-path:polygon(0 0,calc(100% - 8px) 0,100% 8px,100% 100%,8px 100%,0 calc(100% - 8px))}
 .btn:active{filter:brightness(1.15)}
 .btn.sec{background:transparent;border:1px solid var(--edge-hi);color:var(--steel)}
-.btn.go{background:linear-gradient(180deg,#FFCC2E,#E0A400);color:#111;border:none}
+.btn.go{background:linear-gradient(180deg,#22C3D0,#00848F);color:#fff;border:none}
 .btn.ok{background:linear-gradient(180deg,#2BC274,#178A50);color:#fff;border:none;text-shadow:0 1px 0 rgba(0,0,0,.3);box-shadow:inset 0 0 0 1px rgba(255,255,255,.12)}
 .btn.mini{flex:0 0 auto;padding:6px 12px;font-size:.8rem}
 .row{display:flex;gap:8px;margin-top:10px;flex-wrap:wrap}
@@ -101,16 +101,16 @@ textarea{min-height:64px}
 .days{display:flex;gap:6px;overflow-x:auto;padding-bottom:8px}
 .days button{flex:0 0 auto;padding:6px 12px;background:#0A0D0F;border:1px solid var(--edge);color:var(--steel);font-family:"Share Tech Mono","BIZ UDPGothic",monospace;font-weight:700;line-height:1.25;text-align:center}
 .days button small{display:block;font-weight:400;font-size:.7rem;color:var(--sub)}
-.days button.on{border-color:var(--yellow);color:#111;background:linear-gradient(180deg,#FFCC2E,#E0A400)}
-.days button.on small{color:#111}
+.days button.on{border-color:var(--accent);color:#fff;background:linear-gradient(180deg,#22C3D0,#00848F)}
+.days button.on small{color:#E6FCFF}
 .days button.has-todo small{color:var(--ng);font-weight:700}
-.days button.on.has-todo small{color:#7A0E06}
+.days button.on.has-todo small{color:#FFE1DC}
 .tl{list-style:none;margin:0;padding:0;border-left:2px solid var(--edge);margin-left:6px}
 .tl li{display:flex;justify-content:space-between;border-top:1px dashed var(--edge);padding:7px 0 7px 14px;font-size:.9rem;position:relative}
 .tl li::before{content:"";position:absolute;left:-6px;top:13px;width:10px;height:10px;background:var(--plate);border:2px solid var(--edge-hi);transform:rotate(45deg)}
 .tl li:first-child{border-top:none}
 .tl li.empty{color:var(--sub)}
-.tl li:not(.empty)::before{border-color:var(--yellow);background:var(--yellow);box-shadow:0 0 6px rgba(245,184,0,.6)}
+.tl li:not(.empty)::before{border-color:var(--accent);background:var(--accent);box-shadow:0 0 6px rgba(0,200,215,.6)}
 .steps li{display:block}
 .steps .sh{display:flex;justify-content:space-between}
 .steps .chg{font-size:.78rem;color:var(--warn)}
@@ -143,19 +143,19 @@ textarea{min-height:64px}
 .full{position:fixed;inset:0;z-index:10;background:#050708;color:#fff;display:flex;flex-direction:column}
 .full .bar{display:flex;gap:8px;padding:12px}
 .full .bar .btn{background:#2A3438;color:#fff}
-.full .bar .btn.go{background:linear-gradient(180deg,#FFCC2E,#E0A400);color:#111}
+.full .bar .btn.go{background:linear-gradient(180deg,#22C3D0,#00848F);color:#fff}
 .full .hint{text-align:center;font-size:.88rem;padding:10px 12px 0;color:var(--cyan);font-family:"Share Tech Mono","BIZ UDPGothic",monospace}
 #vfBox{position:relative;flex:1;overflow:hidden}
 #vfBox video{position:absolute;inset:0;width:100%;height:100%;object-fit:cover}
-#guide{position:absolute;left:7%;width:86%;top:50%;transform:translateY(-50%);aspect-ratio:3.2/1;border:2px solid var(--yellow);box-shadow:0 0 0 9999px rgba(0,0,0,.6),0 0 14px rgba(245,184,0,.6)}
+#guide{position:absolute;left:7%;width:86%;top:50%;transform:translateY(-50%);aspect-ratio:3.2/1;border:2px solid var(--accent);box-shadow:0 0 0 9999px rgba(0,0,0,.6),0 0 14px rgba(0,200,215,.6)}
 #guide::before{content:"";position:absolute;left:0;right:0;top:50%;height:1px;background:rgba(63,208,255,.6);animation:scan 2s linear infinite}
 @keyframes scan{0%{top:6%}50%{top:94%}100%{top:6%}}
 #guide::after{content:"1行目：図番　2行目：◇ 年月-号機";position:absolute;left:0;right:0;top:calc(100% + 10px);text-align:center;font-size:.82rem;color:#fff}
 #cropStage{flex:1;display:flex;align-items:center;justify-content:center;overflow:hidden;padding:8px}
 #cropWrap{position:relative;touch-action:none;line-height:0;overflow:hidden}
 #cropImg{max-width:100%;max-height:calc(100vh - 220px);display:block;user-select:none;-webkit-user-drag:none}
-#cropBox{position:absolute;border:2px solid var(--yellow);box-shadow:0 0 0 9999px rgba(0,0,0,.6);cursor:move;touch-action:none}
-.h{position:absolute;width:30px;height:30px;background:var(--yellow);touch-action:none;clip-path:polygon(50% 0,100% 50%,50% 100%,0 50%)}
+#cropBox{position:absolute;border:2px solid var(--accent);box-shadow:0 0 0 9999px rgba(0,0,0,.6);cursor:move;touch-action:none}
+.h{position:absolute;width:30px;height:30px;background:var(--accent);touch-action:none;clip-path:polygon(50% 0,100% 50%,50% 100%,0 50%)}
 .h.tl{left:-15px;top:-15px}.h.tr{right:-15px;top:-15px}.h.bl{left:-15px;bottom:-15px}.h.br{right:-15px;bottom:-15px}
 #toast{position:fixed;left:50%;bottom:calc(20px + env(safe-area-inset-bottom,0px));transform:translateX(-50%) translateY(90px);background:#060909;color:var(--ok);
   border:1px solid var(--ok);box-shadow:0 0 12px rgba(56,224,138,.35);font-family:"Share Tech Mono","BIZ UDPGothic",monospace;padding:10px 16px;transition:transform .25s;z-index:30;font-size:.88rem;max-width:90vw}
@@ -163,18 +163,20 @@ textarea{min-height:64px}
 #toast.show{transform:translateX(-50%) translateY(0)}
 
 /* ===== パワーショベル ===== */
-:root{--body:#E9EEF0;--body2:#B9C4CA;--dark:#2A3236;--arm:#F5B800;--glass:#3FD0FF}
+:root{--body:#E9EEF0;--body2:#B9C4CA;--dark:#2A3236;--arm:#00A7B5;--glass:#3FD0FF}
 .hero{display:flex;align-items:flex-end;justify-content:space-between;gap:6px}
-.hero .exc{width:58%;max-width:250px;margin:-14px -6px -6px 0;filter:drop-shadow(0 6px 8px rgba(0,0,0,.6))}
+.hero{min-height:150px;align-items:stretch}
+.hero>div:first-child{position:relative;z-index:1}
+.hero .exc{position:absolute;right:4px;bottom:-2px;width:62%;max-width:310px;filter:drop-shadow(0 8px 10px rgba(0,0,0,.6))}
 .exc .trk-tread{animation:tread .8s linear infinite}
 @keyframes tread{to{stroke-dashoffset:-16}}
-.exc .boom{transform-box:view-box;transform-origin:150px 92px;animation:boom 4s ease-in-out infinite alternate}
-.exc .arm{transform-box:view-box;transform-origin:238px 36px;animation:armk 4s ease-in-out infinite alternate}
-.exc .bkt{transform-box:view-box;transform-origin:262px 108px;animation:bkt 4s ease-in-out infinite alternate}
-@keyframes boom{0%{transform:rotate(-10deg)}100%{transform:rotate(6deg)}}
-@keyframes armk{0%{transform:rotate(-18deg)}100%{transform:rotate(16deg)}}
+.exc .boom{transform-box:view-box;transform-origin:208px 100px;animation:boom 4s ease-in-out infinite alternate}
+.exc .arm{transform-box:view-box;transform-origin:296px 26px;animation:armk 4s ease-in-out infinite alternate}
+.exc .bkt{transform-box:view-box;transform-origin:316px 116px;animation:bkt 4s ease-in-out infinite alternate}
+@keyframes boom{0%{transform:rotate(-8deg)}100%{transform:rotate(7deg)}}
+@keyframes armk{0%{transform:rotate(-22deg)}100%{transform:rotate(14deg)}}
 @keyframes bkt{0%{transform:rotate(-35deg)}100%{transform:rotate(40deg)}}
-.exc .armpart{fill:var(--arm);filter:drop-shadow(0 0 4px rgba(245,184,0,.9))}
+.exc .armpart{fill:url(#gBody);stroke:var(--accent-hi);stroke-width:2;filter:drop-shadow(0 0 5px rgba(63,224,234,.95))}
 .exc .dust{animation:dust 4s ease-in-out infinite alternate;transform-box:fill-box;transform-origin:center}
 @keyframes dust{0%,70%{opacity:0;transform:scale(.4)}100%{opacity:.7;transform:scale(1.2)}}
 .tracks{height:16px;margin:0 0 12px;background:
@@ -186,9 +188,9 @@ textarea{min-height:64px}
   background:radial-gradient(ellipse at center,#18222A 0%,#070A0C 70%)}
 #busy .exc{width:min(86vw,420px)}
 #busy .exc .boom,#busy .exc .arm,#busy .exc .bkt,#busy .exc .dust{animation-duration:1.1s}
-#busy p{margin:0;font-family:"Orbitron","Share Tech Mono",monospace;letter-spacing:.3em;color:var(--yellow);text-shadow:0 0 10px rgba(245,184,0,.6);font-size:1rem}
+#busy p{margin:0;font-family:"Orbitron","Share Tech Mono",monospace;letter-spacing:.3em;color:var(--accent-hi);text-shadow:0 0 10px rgba(0,200,215,.6);font-size:1rem}
 #busy small{font-family:"Share Tech Mono","BIZ UDPGothic",monospace;color:var(--sub);letter-spacing:.06em}
-#busy .ground{width:min(86vw,420px);height:8px;margin-top:-18px;background:repeating-linear-gradient(-45deg,var(--yellow) 0 10px,#111 10px 20px)}
+#busy .ground{width:min(86vw,420px);height:8px;margin-top:-18px;background:repeating-linear-gradient(-45deg,#F5B800 0 10px,#111 10px 20px)}
 h1{font-size:1.9rem}
 .shoot{min-height:104px;font-size:1.25rem}
 .shoot .bucket{display:inline-block;width:34px;height:26px;vertical-align:-5px;margin-right:8px}
@@ -213,7 +215,7 @@ h1{font-size:1.9rem}
   </nav>
 
   <div id="scanView">
-    <button class="shoot" id="shootBtn" type="button"><svg class="bucket" viewBox="0 0 34 26"><path d="M2 4 q26 0 30 18 q-16 6 -30 0 z" fill="#111"/><path d="M4 22 l3 4 l4 -3 l4 4 l4 -3 l4 3" fill="none" stroke="#111" stroke-width="2"/></svg>刻印を撮影する<small>黄色い枠に図番と号機の2行を合わせる</small></button>
+    <button class="shoot" id="shootBtn" type="button"><svg class="bucket" viewBox="0 0 34 26" fill="none" stroke="#fff" stroke-width="2.6"><path d="M2 8 V2 H9 M25 2 H32 V8 M32 18 V24 H25 M9 24 H2 V18"/><path d="M8 13 H26" stroke-width="1.6" opacity=".9"/></svg>刻印を撮影する<small>枠に図番と号機の2行を合わせる</small></button>
     <button class="shoot alt" id="pickBtn" type="button">写真を選んで枠で切り抜く</button>
     <input id="cam" type="file" accept="image/*" capture="environment" class="hidden">
     <input id="pick" type="file" accept="image/*" class="hidden">
@@ -243,7 +245,7 @@ h1{font-size:1.9rem}
   <div class="bar"><button class="btn" id="vfCancel" type="button">やめる</button><button class="btn go" id="vfShot" type="button">撮る</button></div>
 </div>
 <div class="full hidden" id="crop">
-  <div class="hint">黄色い枠を刻印の2行に合わせる（ドラッグで移動、角で大きさ）</div>
+  <div class="hint">枠を刻印の2行に合わせる（ドラッグで移動、角で大きさ）</div>
   <div id="cropStage"><div id="cropWrap"><img id="cropImg" alt="切り抜く写真"><div id="cropBox"><div class="h tl" data-h="tl"></div><div class="h tr" data-h="tr"></div><div class="h bl" data-h="bl"></div><div class="h br" data-h="br"></div></div></div></div>
   <div class="bar"><button class="btn" id="cropCancel" type="button">やめる</button><button class="btn go" id="cropOk" type="button">この範囲で読む</button></div>
 </div>
@@ -253,7 +255,7 @@ h1{font-size:1.9rem}
 <script>
 (() => {
 const $ = id => document.getElementById(id);
-const EXC_SVG = '<svg class="exc" viewBox="0 0 320 160" aria-hidden="true">\n  <defs>\n    <linearGradient id="gBody" x1="0" y1="0" x2="0" y2="1"><stop offset="0" stop-color="#F7FAFB"/><stop offset="1" stop-color="#AEBAC0"/></linearGradient>\n    <linearGradient id="gArm" x1="0" y1="0" x2="1" y2="1"><stop offset="0" stop-color="#FFD54A"/><stop offset="1" stop-color="#E09A00"/></linearGradient>\n  </defs>\n  <!-- キャタピラ -->\n  <rect x="34" y="118" width="172" height="30" rx="15" fill="#1C2326" stroke="#0A0D0F" stroke-width="2"/>\n  <rect x="38" y="122" width="164" height="22" rx="11" fill="none" stroke="#5E6E76" stroke-width="5" stroke-dasharray="6 2" class="trk-tread"/>\n  <circle cx="52" cy="133" r="8" fill="#3A464D"/><circle cx="188" cy="133" r="8" fill="#3A464D"/>\n  <circle cx="86" cy="137" r="4" fill="#2A3439"/><circle cx="120" cy="137" r="4" fill="#2A3439"/><circle cx="154" cy="137" r="4" fill="#2A3439"/>\n  <!-- 旋回体 -->\n  <rect x="70" y="110" width="100" height="10" fill="#2A3236"/>\n  <path d="M40 84 h44 v34 h-40 a6 6 0 0 1 -6 -6 z" fill="#2A3236"/>\n  <path d="M60 80 h118 a6 6 0 0 1 6 6 v26 h-124 z" fill="url(#gBody)" stroke="#7D8B92" stroke-width="1"/>\n  <rect x="66" y="88" width="40" height="4" fill="#7D8B92"/><rect x="66" y="96" width="40" height="4" fill="#7D8B92"/>\n  <rect x="60" y="104" width="124" height="6" fill="#F5B800"/>\n  <!-- キャブ -->\n  <path d="M128 38 h30 l14 14 v30 h-44 z" fill="url(#gBody)" stroke="#7D8B92"/>\n  <path d="M133 43 h23 l11 11 v22 h-34 z" fill="#3FD0FF" opacity=".55"/>\n  <path d="M133 43 h10 l-8 33 h-2 z" fill="#fff" opacity=".35"/>\n  <!-- ブーム → アーム → バケット -->\n  <g class="boom">\n    <path d="M144 88 L226 26 L246 32 L162 98 Z" fill="url(#gBody)" stroke="#7D8B92"/>\n    <path d="M160 82 L222 44" stroke="#1C2326" stroke-width="5" stroke-linecap="round"/>\n    <circle cx="150" cy="92" r="6" fill="#2A3236"/>\n    <g class="arm">\n      <path class="armpart" d="M232 28 L246 30 L268 104 L256 110 Z" stroke="#7A5500" stroke-width="1.2"/>\n      <path d="M240 40 L258 96" stroke="#1C2326" stroke-width="4" stroke-linecap="round"/>\n      <circle cx="238" cy="36" r="5" fill="#2A3236"/>\n      <g class="bkt">\n        <path d="M256 104 q24 4 26 24 q-14 10 -34 2 z" fill="#3A464D" stroke="#0A0D0F" stroke-width="1.5"/>\n        <path d="M250 130 l4 6 l6 -5 l5 6 l6 -5 l5 5" fill="none" stroke="#9FB4BF" stroke-width="2"/>\n        <circle cx="262" cy="108" r="4" fill="#1C2326"/>\n      </g>\n    </g>\n  </g>\n  <ellipse class="dust" cx="276" cy="146" rx="26" ry="6" fill="#8A7A5C"/>\n</svg>';
+const EXC_SVG = '<svg class="exc" viewBox="0 0 360 170" aria-hidden="true">\n  <defs>\n    <linearGradient id="gBody" x1="0" y1="0" x2="0" y2="1"><stop offset="0" stop-color="#FFFFFF"/><stop offset=".55" stop-color="#E4EAED"/><stop offset="1" stop-color="#A9B6BD"/></linearGradient>\n    <linearGradient id="gDark" x1="0" y1="0" x2="0" y2="1"><stop offset="0" stop-color="#4A565C"/><stop offset="1" stop-color="#1B2124"/></linearGradient>\n    <linearGradient id="gGlass" x1="0" y1="0" x2="1" y2="1"><stop offset="0" stop-color="#9FEFFF"/><stop offset=".5" stop-color="#2AA9C9"/><stop offset="1" stop-color="#0B3B4C"/></linearGradient>\n    <linearGradient id="gRod" x1="0" y1="0" x2="0" y2="1"><stop offset="0" stop-color="#FFFFFF"/><stop offset="1" stop-color="#8C9AA1"/></linearGradient>\n    <radialGradient id="gSpot" cx=".5" cy=".5" r=".5"><stop offset="0" stop-color="#00A7B5" stop-opacity=".35"/><stop offset="1" stop-color="#00A7B5" stop-opacity="0"/></radialGradient>\n  </defs>\n  <ellipse cx="190" cy="100" rx="170" ry="70" fill="url(#gSpot)"/>\n  <ellipse cx="150" cy="160" rx="120" ry="7" fill="#000" opacity=".55"/>\n  <!-- 足回り -->\n  <path d="M40 132 a16 16 0 0 1 16 -16 h150 a16 16 0 0 1 0 32 h-150 a16 16 0 0 1 -16 -16 z" fill="#15191B" stroke="#050708" stroke-width="2"/>\n  <path d="M44 132 a12 12 0 0 1 12 -12 h150 a12 12 0 0 1 0 24 h-150 a12 12 0 0 1 -12 -12 z" fill="none" stroke="#56636A" stroke-width="6" stroke-dasharray="5 3" class="trk-tread"/>\n  <rect x="58" y="124" width="146" height="16" rx="4" fill="url(#gDark)"/>\n  <circle cx="58" cy="132" r="11" fill="#2B3337" stroke="#0A0D0F" stroke-width="2"/><circle cx="58" cy="132" r="4" fill="#8C9AA1"/>\n  <circle cx="204" cy="132" r="10" fill="#2B3337" stroke="#0A0D0F" stroke-width="2"/><circle cx="204" cy="132" r="3.5" fill="#8C9AA1"/>\n  <g fill="#0E1214"><circle cx="90" cy="141" r="4"/><circle cx="118" cy="141" r="4"/><circle cx="146" cy="141" r="4"/><circle cx="174" cy="141" r="4"/></g>\n  <rect x="104" y="112" width="70" height="12" fill="#1B2124"/>\n  <!-- 上部旋回体 -->\n  <path d="M46 84 q0 -10 10 -12 h52 v42 h-52 q-10 -2 -10 -12 z" fill="url(#gDark)"/>\n  <path d="M96 70 h122 l10 12 v30 h-132 z" fill="url(#gBody)" stroke="#7D8B92" stroke-width=".8"/>\n  <g stroke="#8C9AA1" stroke-width="2"><path d="M106 78 h40"/><path d="M106 84 h40"/><path d="M106 90 h40"/></g>\n  <path d="M96 100 h132 v6 h-132 z" fill="#00A7B5"/>\n  <path d="M96 94 l132 -10 v5 l-132 10 z" fill="#00A7B5" opacity=".75"/>\n  <path d="M96 112 h132" stroke="#5E6C73" stroke-width="2"/>\n  <path d="M120 70 v-6 h40 v6" fill="none" stroke="#C9D3D8" stroke-width="2"/>\n  <!-- キャブ -->\n  <path d="M176 22 h28 q8 0 12 8 l12 40 h-52 z" fill="#2B3337" stroke="#0A0D0F" stroke-width="1.5"/>\n  <path d="M181 27 h22 q5 0 8 6 l10 33 h-40 z" fill="url(#gGlass)"/>\n  <path d="M184 29 h8 l-6 37 h-3 z" fill="#fff" opacity=".45"/>\n  <path d="M176 50 h46" stroke="#2B3337" stroke-width="2"/>\n  <!-- ブーム（弓なり）→ アーム → バケット -->\n  <g class="boom">\n    <path d="M200 96 Q236 34 290 20 L300 32 Q252 48 220 104 Z" fill="url(#gBody)" stroke="#7D8B92" stroke-width="1"/>\n    <path d="M207 92 Q240 40 292 26" fill="none" stroke="#00A7B5" stroke-width="3"/>\n    <!-- ブームシリンダー -->\n    <path d="M196 108 L232 66" stroke="#2B3337" stroke-width="8" stroke-linecap="round"/>\n    <path d="M222 78 L244 52" stroke="url(#gRod)" stroke-width="4" stroke-linecap="round"/>\n    <circle cx="208" cy="100" r="6" fill="#2B3337" stroke="#0A0D0F"/>\n    <g class="arm">\n      <!-- アームシリンダー -->\n      <path d="M262 36 L286 16" stroke="#2B3337" stroke-width="7" stroke-linecap="round"/>\n      <path d="M280 21 L296 10" stroke="url(#gRod)" stroke-width="3.5" stroke-linecap="round"/>\n      <path class="armpart" d="M290 10 L304 16 L322 112 L310 120 L300 30 Z"/>\n      <path d="M298 24 L314 112" stroke="#00A7B5" stroke-width="3"/>\n      <circle cx="296" cy="26" r="5.5" fill="#2B3337" stroke="#0A0D0F"/>\n      <g class="bkt">\n        <path d="M308 112 q30 2 34 30 q-20 14 -44 2 l2 -8 z" fill="url(#gDark)" stroke="#0A0D0F" stroke-width="1.5"/>\n        <path d="M298 146 l5 6 l6 -5 l6 6 l6 -5 l6 5 l6 -5" fill="none" stroke="#C9D3D8" stroke-width="2.2" stroke-linejoin="round"/>\n        <circle cx="316" cy="116" r="4.5" fill="#15191B" stroke="#8C9AA1"/>\n      </g>\n    </g>\n  </g>\n  <ellipse class="dust" cx="320" cy="160" rx="30" ry="6" fill="#8A7A5C"/>\n</svg>';
 document.querySelectorAll("[data-exc]").forEach(el => { el.outerHTML = EXC_SVG; });
 function busy(on, title, sub) { $("busy").classList.toggle("hidden", !on); if (on) { $("busyT").textContent = title || "WORKING"; $("busyS").textContent = sub || ""; } }
 const run = (fn, ...args) => new Promise((res, rej) => google.script.run.withSuccessHandler(res).withFailureHandler(rej)[fn](...args));

diff --git a/CLAUDE.md b/CLAUDE.md
@@ -14,7 +14,7 @@
 | `gas/03_フォント見本.js` | 刻印機 Telesis TMC470 の11x16ドットフォント見本（PNG base64）。AI読取の1枚目に添える。元画像 `data/telesis_font_11x16.png` |
 | `gas/03_通知.js` | `notifyUnchecked`：次の出荷日（台帳上の翌出荷日）分で「良」がないアームをメール。`TRACK_FROM`（運用開始日 2026/10/08）より前の出荷は対象外 |
 | `gas/04_テスト.js` | GASエディタで実行する確認用関数 |
-| `gas/index.html` | 画面。見た目はダーク×メカ×パワーショベル（ハザード帯・面取りパネル・ボルト・LED・キャタピラ帯・ヘッダーにSVGショベル＝ブーム/アーム/バケットが掘るアニメ、アームだけ黄色発光。AI読取中は全画面ショベル `#busy`）。ロゴ等は使わずオリジナル描画。スクショ `docs/screen_*.png`。（読取／一覧／記録／設定＝自分の名前選択とCSVのみ。確認者の追加は設定シート、取込はトリガー任せ）。カメラ枠・切り抜き・凹凸強調は旧版から移植 |
+| `gas/index.html` | 画面。見た目はダーク×メカ×パワーショベル、色はコベルコ建機のブランドカラー（白×ブルーグリーン `--accent:#00A7B5`。ハザード帯だけ安全表示の黄黒）（ハザード帯・面取りパネル・ボルト・LED・キャタピラ帯・ヘッダーにSVGショベル＝ブーム/アーム/バケットが掘るアニメ、アームだけ黄色発光。AI読取中は全画面ショベル `#busy`）。ロゴ等は使わずオリジナル描画。スクショ `docs/screen_*.png`。（読取／一覧／記録／設定＝自分の名前選択とCSVのみ。確認者の追加は設定シート、取込はトリガー任せ）。カメラ枠・切り抜き・凹凸強調は旧版から移植 |
 | `test/gas.test.js` | 照合・Excel解析・画面(jsdom＋google.script.runモック)のテスト |
 
 - 台帳キー＝`図番_号機`。元Excel「出荷明細」シート（ヘッダー5行目、A列「注文番号（写し）」）。3年分約8,400行→アーム7,918本（ブームブラケット等は `EXCLUDE_KISHU` で除外、図番+号機の重複63件は出荷日が新しい方を採用し「要確認」シートへ）
